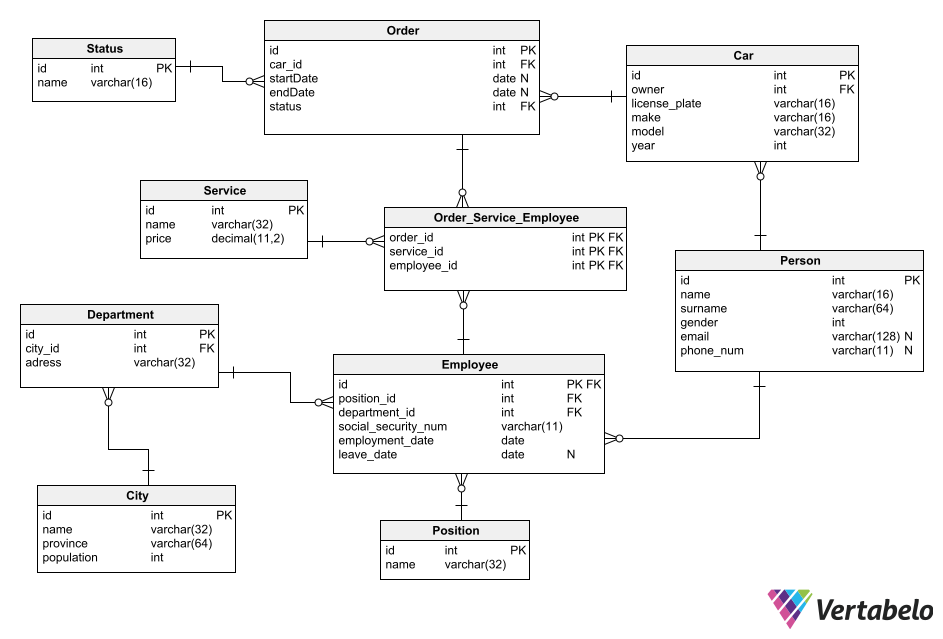
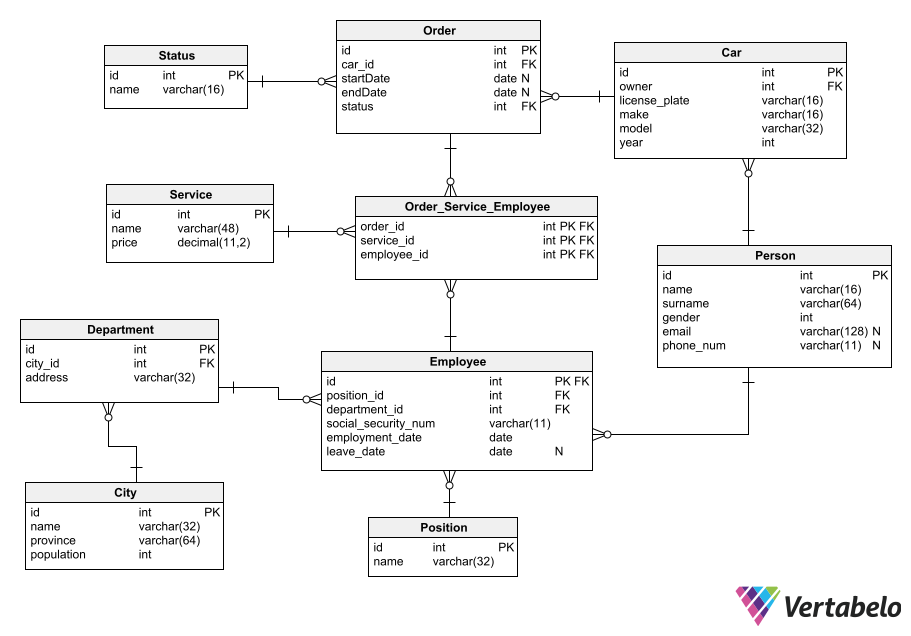
updated readme, fixed erd

diff --git a/TODO.md b/TODO.md
@@ -1,6 +1,6 @@
 - dla osoby pozmieniac niektore emaile/nrtel dla roznorodnosci, ale jedno z nich zawsze musi byc.
 
-- wybrac? kto jest employee, a potem kto jest employee na takim stanowisku ze bedzie uczestniczyl przy zamowieniach
+- wybrac osoby na jakich STANOWISKACH beda braly udzial w kompletowaniu zamowien
 
 - trzeba bedzie zadbac o to zeby unikalne rzeczy sie nie powtarzaly, nr tel, tablice itp ale to jak juz wszystko bedzie wbite.
 - zeby ownerami samochodow byli tylko personsy w bazie niebedace pracownikami.
@@ -9,12 +9,7 @@
 
 - src folder, pomanageowac to wszystko
 
-- na diagramie jest literowka, department adress
-- na diagramie w service jest dlugosc 32, zmienilem na 48
-
 - dla kazdego auta cena uslugi jest taka sama, to troche suabe.
 
 inserty:
 car, order, order_service_emp
-
-- employe wrzucic ceo i pare janitorsow jeszcze wygenerowac, zeby po 2-3 bylo w kazdym departamencie
